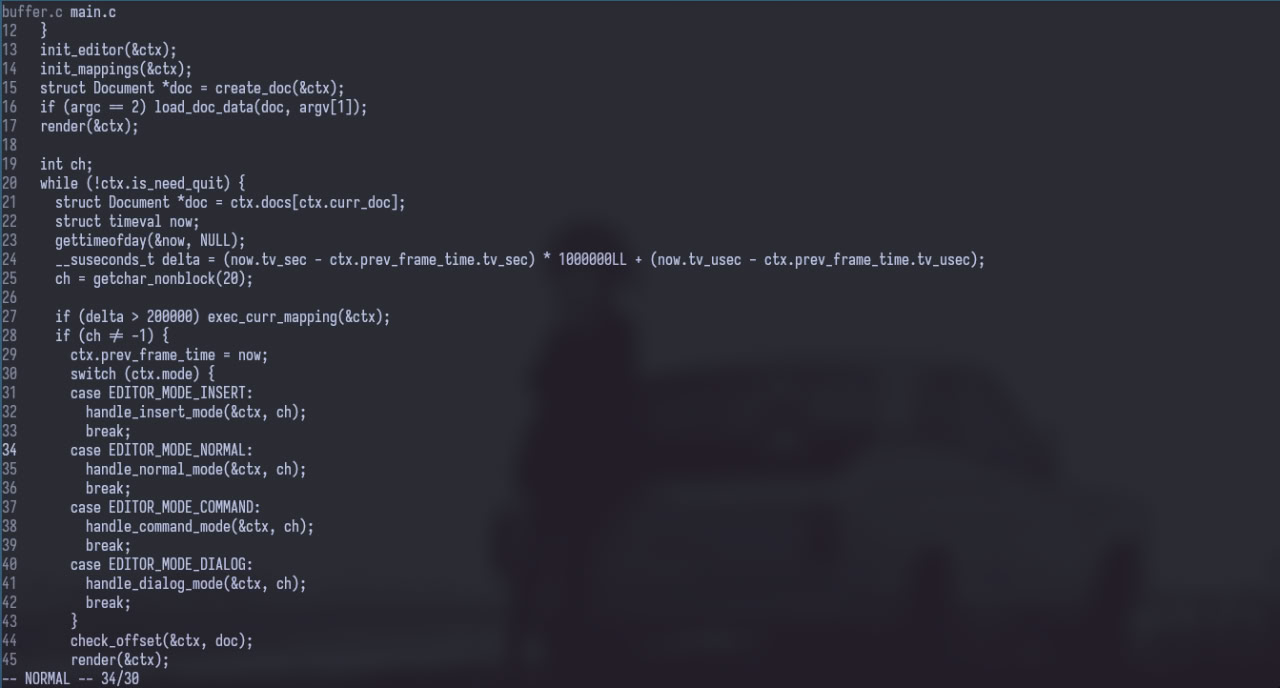
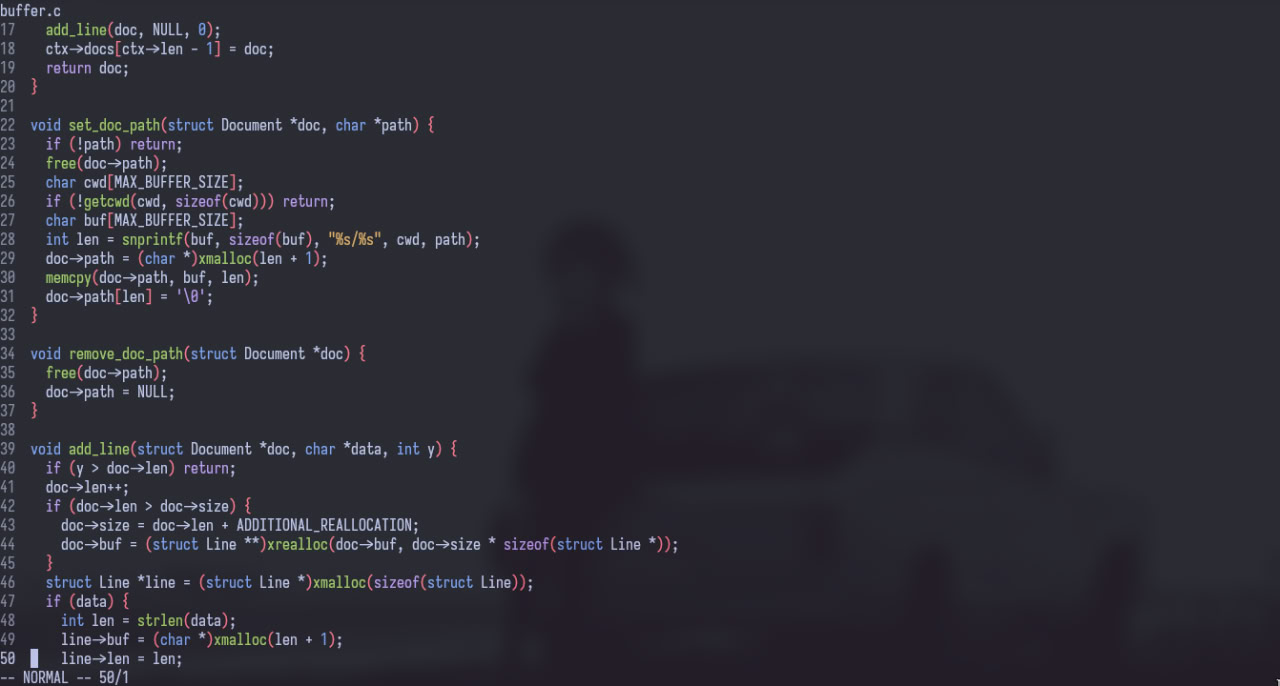
improve code highlighting

Changed region(s): [[0.0, 0.0, 0.7812, 1.0]]

diff --git a/src/lexer.c b/src/lexer.c
@@ -1,5 +1,17 @@
-#include "lexer.h"
+#include <ctype.h>
 #include <stdlib.h>
+#include <string.h>
+
+#include "lexer.h"
+
+static const char *keywords[] = {
+    "if", "else", "switch", "case", "default", "while", "do", "for", "break", "continue", "return", "goto", "sizeof", "typedef",
+};
+
+static const char *data_types[] = {
+    "int",    "char",  "float", "double", "void",   "long",   "short",    "signed",   "unsigned",
+    "struct", "union", "enum",  "const",  "static", "extern", "volatile", "register",
+};
 
 struct Tokens scan_tokens(struct Document *doc) {
   free_tokens(doc);
@@ -15,15 +27,6 @@ struct Tokens scan_tokens(struct Document *doc) {
   return (struct Tokens){lexer.lines, lexer.len};
 }
 
-void scan_token(struct Lexer *lexer) {
-  char ch = advance(lexer);
-  switch (ch) {
-  case '"':
-    token_string(lexer);
-    break;
-  }
-}
-
 char advance(struct Lexer *lexer) {
   struct Line *line = lexer->doc->buf[lexer->line];
   if (lexer->curr >= line->len) {
@@ -34,7 +37,115 @@ char advance(struct Lexer *lexer) {
   return line->buf[lexer->curr++];
 }
 
-void add_token(struct Lexer *lexer, enum TokenType type) {
+char peek(struct Lexer *lexer) {
+  if (is_at_end(lexer)) return '\0';
+  struct Line *line = lexer->doc->buf[lexer->line];
+  return line->buf[lexer->curr];
+}
+
+char peek_next(struct Lexer *lexer) {
+  struct Line *line = lexer->doc->buf[lexer->line];
+  if (lexer->curr >= line->len) return '\0';
+  return line->buf[lexer->curr + 1];
+}
+
+void scan_token(struct Lexer *lexer) {
+  char ch = advance(lexer);
+  switch (ch) {
+  case '(':
+  case ')':
+  case '[':
+  case ']':
+  case '{':
+  case '}':
+    add_token(lexer, TOKEN_DELIMITER);
+    break;
+
+  case '#':
+    scan_directive(lexer);
+    break;
+
+  case '\"':
+  case '\'':
+    scan_quoted_literal(lexer, ch);
+    break;
+
+  default:
+    if (isdigit(ch)) {
+      scan_number_literal(lexer);
+    } else if (is_alpha(ch)) {
+      scan_identifier(lexer);
+    }
+  }
+}
+
+void scan_quoted_literal(struct Lexer *lexer, char delimiter) {
+  while (peek(lexer) != delimiter && !is_at_end(lexer)) {
+    advance(lexer);
+  }
+  if (peek(lexer) == '\0') return;
+  advance(lexer);
+  enum TokenGroup group = delimiter == '\'' ? TOKEN_LITERAL_SYMBOL : TOKEN_LITERAL_STRING;
+  add_token(lexer, group);
+}
+
+void scan_directive(struct Lexer *lexer) {
+  while (peek(lexer) == ' ') {
+    advance(lexer);
+  }
+  while (is_alpha_numeric(peek(lexer))) {
+    advance(lexer);
+  }
+  add_token(lexer, TOKEN_DIRECTIVE);
+}
+
+void scan_number_literal(struct Lexer *lexer) {
+  while (isdigit(peek(lexer))) {
+    advance(lexer);
+  }
+  if (peek(lexer) == '.' && isdigit(peek_next(lexer))) {
+    advance(lexer);
+    while (isdigit(peek(lexer))) {
+      advance(lexer);
+    }
+  }
+  add_token(lexer, TOKEN_LITERAL_NUMBER);
+}
+
+void scan_identifier(struct Lexer *lexer) {
+  while (is_alpha_numeric(peek(lexer))) {
+    advance(lexer);
+  }
+  struct Line *line = lexer->doc->buf[lexer->line];
+  size_t len = lexer->curr - lexer->start;
+  char *identifier = (char *)xmalloc(len + 1);
+  strncpy(identifier, line->buf + lexer->start, len);
+  identifier[len] = '\0';
+
+  enum TokenGroup group = -1;
+  size_t keywords_len = sizeof(keywords) / sizeof(keywords[0]);
+  size_t data_types_len = sizeof(data_types) / sizeof(data_types[0]);
+  for (int i = 0; i < MAX(keywords_len, data_types_len); i++) {
+    if (i < keywords_len && !strcmp(identifier, keywords[i])) {
+      group = TOKEN_KEYWORD;
+      break;
+    }
+    if (i < data_types_len && !strcmp(identifier, data_types[i])) {
+      group = TOKEN_DATA_TYPE;
+      break;
+    }
+  }
+
+  if (group == -1) {
+    while (peek(lexer) == ' ') {
+      advance(lexer);
+    }
+    if (peek(lexer) == '(') group = TOKEN_FUNCTION;
+  }
+  if (group != -1) add_token(lexer, group);
+}
+
+void add_token(struct Lexer *lexer, enum TokenGroup group) {
   struct TokenLine *line = lexer->lines[lexer->line];
   line->len++;
   if (line->len >= line->size) {
@@ -42,26 +153,9 @@ void add_token(struct Lexer *lexer, enum TokenType type) {
     line->buf = (struct Token *)xrealloc(line->buf, line->size * sizeof(struct Token));
   }
   struct Token *token = &line->buf[line->len - 1];
-  token->type = type;
+  token->group = group;
   token->start = lexer->start;
   token->len = lexer->curr - lexer->start;
-}
-
-bool is_at_end(struct Lexer *lexer) { return lexer->curr >= lexer->doc->buf[lexer->doc->len - 1]->len && lexer->line >= lexer->doc->len - 1; }
-
-char peek(struct Lexer *lexer) {
-  if (is_at_end(lexer)) return '\0';
-  struct Line *line = lexer->doc->buf[lexer->line];
-  return line->buf[lexer->curr];
-}
-
-void token_string(struct Lexer *lexer) {
-  while (peek(lexer) != '"' && !is_at_end(lexer)) {
-    advance(lexer);
-  }
-  if (peek(lexer) == '\0') return;
-  advance(lexer);
-  add_token(lexer, LITERAL_STRING);
 }
 
 void free_tokens(struct Document *doc) {
@@ -73,3 +167,7 @@ void free_tokens(struct Document *doc) {
   }
   doc->tokens = (struct Tokens){NULL, 0};
 }
+
+bool is_alpha(char ch) { return (ch >= 'a' && ch <= 'z') || (ch >= 'A' && ch <= 'Z') || ch == '_'; }
+bool is_alpha_numeric(char ch) { return is_alpha(ch) || isdigit(ch); }
+bool is_at_end(struct Lexer *lexer) { return lexer->curr >= lexer->doc->buf[lexer->doc->len - 1]->len && lexer->line >= lexer->doc->len - 1; }

diff --git a/src/service.c b/src/service.c
@@ -151,6 +151,31 @@ void unsaved_changes_dialog(struct Context *ctx, void (*on_confirm)(struct Conte
   set_statusline_dialog(ctx, "You have unsaved changes. Are you sure (Y/N): ", on_confirm, NULL);
 }
 
+enum ForegroundColor get_token_foreground(enum TokenGroup group) {
+  switch (group) {
+  case TOKEN_LITERAL_STRING:
+    return FOREGROUND_YELLOW;
+
+  case TOKEN_LITERAL_NUMBER:
+  case TOKEN_DATA_TYPE:
+    return FOREGROUND_BLUE;
+
+  case TOKEN_LITERAL_SYMBOL:
+  case TOKEN_KEYWORD:
+    return FOREGROUND_MAGENTA;
+
+  case TOKEN_FUNCTION:
+  case TOKEN_DIRECTIVE:
+    return FOREGROUND_GREEN;
+
+  case TOKEN_DELIMITER:
+    return FOREGROUND_RED;
+
+  default:
+    return FOREGROUND_DEFAULT;
+  }
+}
+
 void set_statusline_mode(struct Context *ctx, enum StatusMode mode) { ctx->status.mode = mode; }
 void init_highlightings(struct Document *doc) { doc->tokens = scan_tokens(doc); }
 void set_flag_to_quit(struct Context *ctx) { ctx->is_need_quit = true; }

diff --git a/src/types.h b/src/types.h
@@ -54,16 +54,26 @@ enum BackgroundColor {
   BACKGROUND_DEFAULT = 49,
 };
 
+enum TokenGroup {
+  TOKEN_LITERAL_STRING,
+  TOKEN_LITERAL_NUMBER,
+  TOKEN_LITERAL_SYMBOL,
+  TOKEN_KEYWORD,
+  TOKEN_DATA_TYPE,
+  TOKEN_FUNCTION,
+  TOKEN_DELIMITER,
+  TOKEN_DIRECTIVE,
+};
+
 enum EditorMode { EDITOR_MODE_NORMAL, EDITOR_MODE_INSERT, EDITOR_MODE_COMMAND, EDITOR_MODE_DIALOG };
 enum StatusMode { STATUS_MODE_NORMAL, STATUS_MODE_COMMAND, STATUS_MODE_MESSAGE, STATUS_MODE_DIALOG };
 enum RemoveResult { REMOVE_NOTHING, REMOVE_CHAR, REMOVE_LINE };
 enum MessageLevel { MESSAGE_INFO, MESSAGE_WARNING, MESSAGE_ERROR };
-enum TokenType { LITERAL_STRING, LITERAL_NUMBER };
 
 struct Context;
 
 struct Token {
-  enum TokenType type;
+  enum TokenGroup group;
   size_t start, len;
 };
 

diff --git a/src/lexer.h b/src/lexer.h
@@ -4,13 +4,20 @@
 #include "memory.h"
 #include "types.h"
 
+bool is_alpha(char ch);
+bool is_alpha_numeric(char ch);
+bool is_at_end(struct Lexer *lexer);
 void free_tokens(struct Document *doc);
-void token_string(struct Lexer *lexer);
-void add_token(struct Lexer *lexer, enum TokenType type);
+void add_token(struct Lexer *lexer, enum TokenGroup type);
 char advance(struct Lexer *lexer);
 char peek(struct Lexer *lexer);
+char peek_next(struct Lexer *lexer);
+char peek_next_exept_space(struct Lexer *lexer);
+void scan_quoted_literal(struct Lexer *lexer, char delimiter);
+void scan_number_literal(struct Lexer *lexer);
+void scan_identifier(struct Lexer *lexer);
+void scan_directive(struct Lexer *lexer);
 void scan_token(struct Lexer *lexer);
-bool is_at_end(struct Lexer *lexer);
 struct Tokens scan_tokens(struct Document *doc);
 
 #endif

diff --git a/src/service.h b/src/service.h
@@ -8,7 +8,6 @@
 
 void set_statusline_message(struct Context *ctx, const char *msg, enum MessageLevel level);
 void set_statusline_dialog(struct Context *ctx, const char *question, void (*on_confirm)(struct Context *ctx), void (*on_deny)(struct Context *ctx));
-
 void set_editor_mode(struct Context *ctx, enum EditorMode mode);
 void set_statusline_mode(struct Context *ctx, enum StatusMode mode);
 
@@ -18,14 +17,15 @@ void init_editor(struct Context *ctx);
 void set_flag_to_quit(struct Context *ctx);
 void quit_editor(struct Context *ctx);
 
+struct Cell **create_frame(struct Context *ctx);
+void exec_curr_mapping(struct Context *ctx);
+void clear_cmd(struct Context *ctx);
 void unsaved_changes_dialog(struct Context *ctx, void (*on_confirm)(struct Context *ctx));
 void free_mappings(struct Context *ctx, struct MappingNode *node);
 void free_resources(struct Context *ctx);
-void exec_curr_mapping(struct Context *ctx);
-void clear_cmd(struct Context *ctx);
 void check_offset(struct Context *ctx, struct Document *doc);
 int getchar_nonblock(int ms);
 const char *get_file_name(char *path);
-struct Cell **create_frame(struct Context *ctx);
+enum ForegroundColor get_token_foreground(enum TokenGroup group);
 
 #endif

diff --git a/src/main.c b/src/main.c
@@ -13,7 +13,10 @@ int main(int argc, char **argv) {
   init_editor(&ctx);
   init_mappings(&ctx);
   struct Document *doc = create_doc(&ctx);
-  if (argc == 2) load_doc_data(doc, argv[1]);
+  if (argc == 2) {
+    load_doc_data(doc, argv[1]);
+    init_highlightings(doc);
+  }
   render(&ctx);
 
   int ch;

diff --git a/src/render.c b/src/render.c
@@ -135,8 +135,11 @@ void render_buf(struct Context *ctx, struct Document *doc, struct Cell **frame) 
       struct TokenLine *line = doc->tokens.lines[y];
       for (int j = 0; j < line->len; j++) {
         struct Token *token = &line->buf[j];
+        enum ForegroundColor fg = get_token_foreground(token->group);
         for (int k = token->start; k < token->start + token->len; k++) {
-          frame[i + offsetY][k + offsetX].fg = FOREGROUND_YELLOW;
+          int x = k - doc->offsetX;
+          if (x < 0) continue;
+          frame[i + offsetY][x + offsetX].fg = fg;
         }
       }
     }

diff --git a/src/editor_commands.c b/src/editor_commands.c
@@ -4,7 +4,7 @@
 #include "editor_commands.h"
 #include "service.h"
 
-struct Command commands_list[] = {
+static struct Command commands_list[] = {
     {"open", command_open},
     {"quit", command_quit},
     {"save", command_save},

diff --git a/src/mappings.c b/src/mappings.c
@@ -1,7 +1,7 @@
 #include "mappings.h"
 #include <string.h>
 
-struct Mapping mappings_list[] = {
+static struct Mapping mappings_list[] = {
     {"i", cmd_insert_mode_prev},
     {"a", cmd_insert_mode_next},
     {":", cmd_command_mode},

diff --git a/README.md b/README.md
@@ -1,5 +1,5 @@
 # Preview
-<img alt="preview" src="assets/preview.jpg" width = "450px" />
+<img alt="preview" src="assets/preview.jpg" width = "100%" />
 
 # Building
 ```